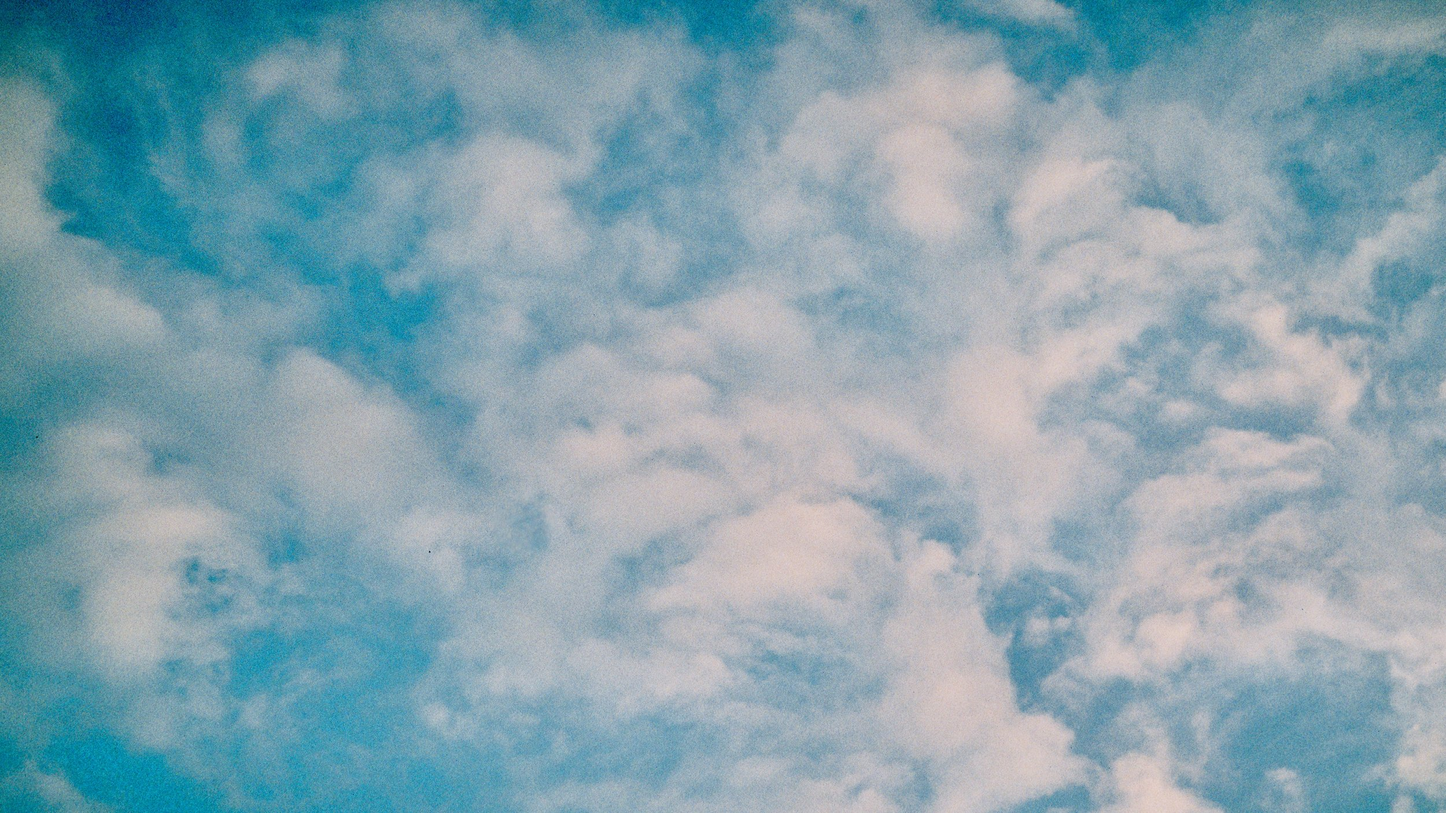
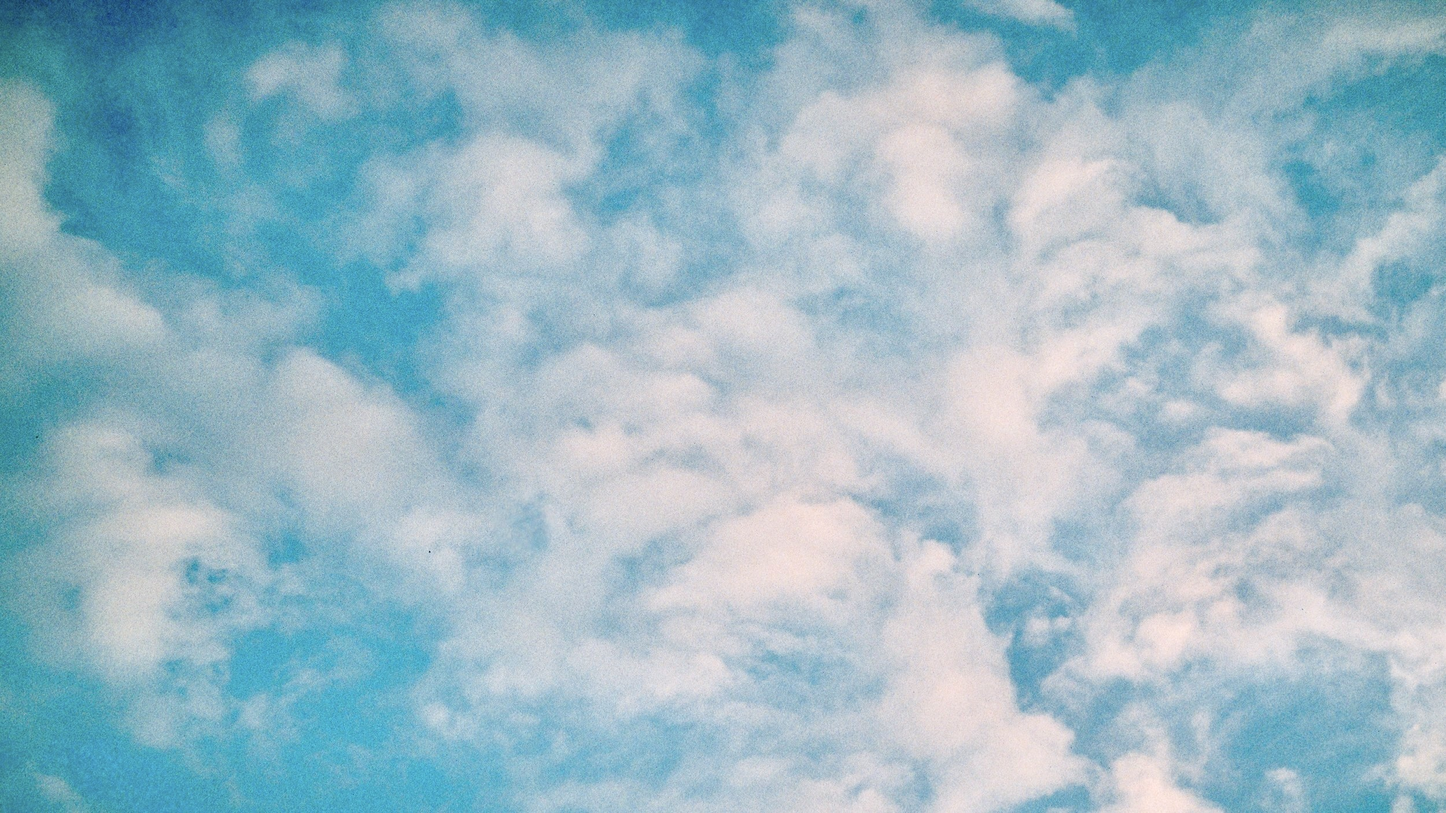
thumbnail menu items

diff --git a/_includes/gis-list.html b/_includes/gis-list.html
@@ -1,16 +1,19 @@
-{% assign items = site.gis | sort: "year" | reverse %}
+{% assign items = site.gis | sort: "order" %}
 {% if include.limit %}{% assign items = items | slice: 0, include.limit %}{% endif %}
 <ul class="project-list">
-{% for p in items %}
+{% for i in items %}
   <li>
-    <a href="{{ p.url | relative_url }}">
-      <span class="year">{{ p.year }}</span>
-      <span class="body">
-        <strong>{{ p.title }}</strong>
-        <span class="sum">{{ p.summary }}</span>
-        <span class="tools">{{ p.tools | join: ", " }}</span>
+    <a href="{{ i.url | relative_url }}">
+      <!-- <span class="year">{{ i.year }}</span> -->
+      <span class="thumbnail">
+        <img class="circle" src="{{ i.thumbnail-src }}" alt="{{ i.summary }}">
       </span>
-      {% if p.result %}<span class="result">{{ p.result }}</span>{% endif %}
+      <span class="body">
+        <strong>{{ i.title }}</strong>
+        <span class="sum">{{ i.summary }}</span>
+        <span class="tools">{{ i.tools | join: ", " }}</span>
+      </span>
+      {% if i.result %}<span class="result">{{ i.result }}</span>{% endif %}
     </a>
   </li>
 {% endfor %}

diff --git a/_includes/ml-list.html b/_includes/ml-list.html
@@ -1,10 +1,13 @@
-{% assign items = site.ml | sort: "year" | reverse %}
+{% assign items = site.ml | sort: "order" %}
 {% if include.limit %}{% assign items = items | slice: 0, include.limit %}{% endif %}
 <ul class="project-list">
 {% for i in items %}
   <li>
     <a href="{{ i.url | relative_url }}">
-      <span class="year">{{ i.year }}</span>
+      <!-- <span class="year">{{ i.year }}</span> -->
+      <span class="thumbnail">
+        <img class="circle" src="{{ i.thumbnail-src }}" alt="{{ i.summary }}">
+      </span>
       <span class="body">
         <strong>{{ i.title }}</strong>
         <span class="sum">{{ i.summary }}</span>

diff --git a/assets/css/main.css b/assets/css/main.css
@@ -91,6 +91,7 @@ h2 { font-size: 1.5rem; font-weight: 700; }
 .project-list a { display: grid; grid-template-columns: 4rem 1fr auto; gap: 1.25rem; padding: 1.4rem 0; color: inherit; text-decoration: none; }
 .project-list a:hover strong { color: var(--accent); }
 .project-list .year { font-family: var(--head); color: var(--muted); }
+.project-list .circle { object-fit: cover; border-radius: 50%; }
 .project-list strong { font-family: var(--head); font-size: 1.3rem; display: block; }
 .project-list .sum, .project-list .tools { display: block; color: var(--muted); }
 .project-list .tools { font-size: .95rem; margin-top: .25rem; }

diff --git a/_layouts/gis.html b/_layouts/gis.html
@@ -2,7 +2,7 @@
 layout: default
 ---
 <article class="wrap narrow project">
-  <a class="back" href="{{ '/gis/' | relative_url }}">All Spatial Analysis</a>
+  <a class="back" href="{{ '/gis/' | relative_url }}">< Back to all projects</a>
   <h1>{{ page.title }}</h1>
   <p class="lede">{{ page.summary }}</p>
   <dl class="facts">

diff --git a/_layouts/ml.html b/_layouts/ml.html
@@ -2,7 +2,7 @@
 layout: default
 ---
 <article class="wrap narrow project">
-  <a class="back" href="{{ '/ml/' | relative_url }}">All projects</a>
+  <a class="back" href="{{ '/ml/' | relative_url }}">< Back to all projects</a>
   <h1>{{ page.title }}</h1>
   <p class="lede">{{ page.summary }}</p>
   <dl class="facts">

diff --git a/_ml/text-classification.md b/_ml/text-classification.md
@@ -1,10 +1,12 @@
 ---
 title: Text Classification
 summary: Binary classificaiton model to detect fake news
+order: 1
 year: 2026
 tools: [NLP, Neural Networks, Pytorch, Python]
 # result: 18% fewer cancellations in a retention pilot
 repo: https://github.com/nick-jolly/ml-text-classification
+thumbnail-src: /assets/ml/text-classification/thumbnail.png
 ---
 ## Challenge
 To create a binary classification model which accurately classifies fake news articles. Key issues include class imbalance in the training data, and model family selection.

diff --git a/_ml/environmental-monitoring.md b/_ml/environmental-monitoring.md
@@ -1,10 +1,12 @@
 ---
 title: Environmental Monitoring
 summary: Regression based on environmental monitoring data
+order: 2
 year: 2026
 tools: [Docker, PostGIS, Linear Modeling, Hypothesis Testing]
 # result: Three corridors account for 40% of delay minutes
 repo: https://github.com/yourusername/transit-delays
+thumbnail-src: /assets/ml/environmental-monitoring/thumbnail.png
 ---
 ## Challenge
 To develop and assess regresion models to understand key factors impacting environmental conditions at different sites across Victoria.

diff --git a/_gis/gis-project-01.md b/_gis/gis-project-01.md
@@ -5,6 +5,7 @@ year: 2026
 tools: [Spatial Analysis, QGIS]
 # result: 18% fewer cancellations in a retention pilot
 # repo: https://github.com/nick-jolly/ml-text-classification
+thumbnail-src: /assets/gis/project-01/thumbnail.png
 ---
 ## Challenge
 To create a binary classification model which accurately classifies fake news articles. Key issues include class imbalance in the training data, and model family selection.
